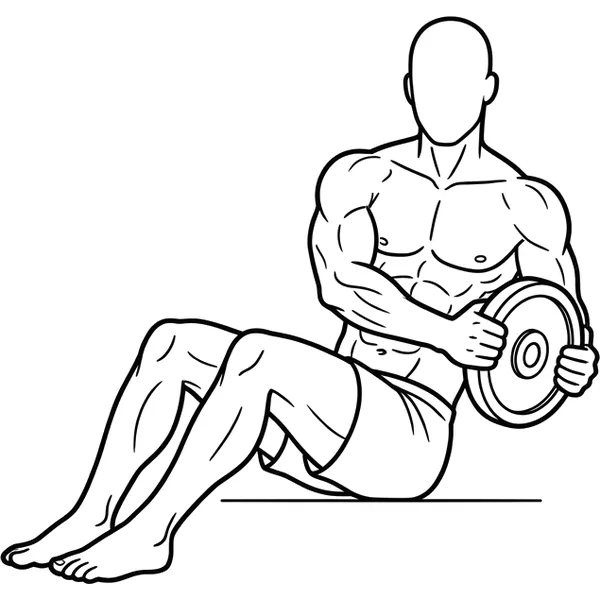
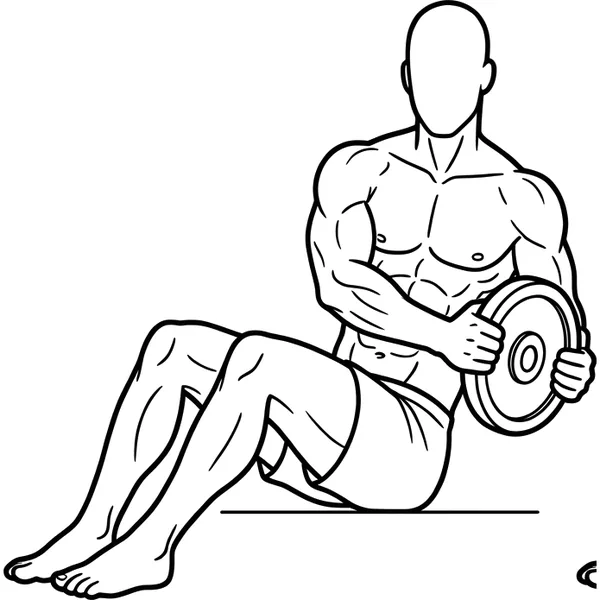
0.91.1: segunda tanda de dibujos con Gemini: curl predicador en polea, press en multipower, press a una mano, encogimientos con barra, dominadas neutras, flexiones en pino, giros rusos animados, frontales alternas y subida al cajon

Changed region(s): [[0.0, 0.06, 1.0, 1.0], [0.66, 0.0, 0.81, 0.18], [0.96, 0.93, 1.0, 0.99]]

diff --git a/web/sw.js b/web/sw.js
@@ -7,12 +7,12 @@
 // Solo se ocupa del CÓDIGO de la app. Los datos del usuario nunca pasan por
 // aquí: viven en el dispositivo (IndexedDB) y en su Google Drive.
 
-const VERSION = '0.91.0';
+const VERSION = '0.91.1';
 const CACHE = `entreno-${VERSION}`;
 // Las imágenes van en un almacén aparte que NO se borra al actualizar la app:
 // así se ven sin conexión aunque haya salido una versión nueva.
 // Si cambian las imágenes, se sube el número y los móviles bajan las nuevas.
-const CACHE_IMAGENES = 'entreno-imagenes-56';  // el mismo nombre en app.js (guardarImagenesParaSinConexion)
+const CACHE_IMAGENES = 'entreno-imagenes-57';  // el mismo nombre en app.js (guardarImagenesParaSinConexion)
 // Los audios de hipnosis, igual: almacén aparte que NO se borra al actualizar
 // la app. Pesan varios megas cada uno y no cambian nunca, así que se guardan
 // la primera vez que suenan y a partir de ahí se oyen sin conexión. Si algún

diff --git a/web/js/app.js b/web/js/app.js
@@ -249,7 +249,7 @@ async function guardarImagenesParaSinConexion() {
     const capas = Object.entries(MUSCULOS).flatMap(([clave, m]) => m.vistas.map((v) => archivoCapa(clave, v)));
     const cuerpo = ['imagenes/musculos/cuerpo-delante.svg', 'imagenes/musculos/cuerpo-detras.svg'];
     // El mismo nombre que CACHE_IMAGENES en sw.js: si no, el service worker lo borra.
-    const cache = await caches.open('entreno-imagenes-56');
+    const cache = await caches.open('entreno-imagenes-57');
     for (const ruta of [...cuerpo, ...capas, ...mios]) {
       if (!(await cache.match(ruta, { ignoreSearch: true }))) {
         const r = await fetch(ruta).catch(() => null);

diff --git a/web/js/version.js b/web/js/version.js
@@ -1,3 +1,3 @@
 // Versión del código de la app. Se sube en cada publicación y debe coincidir
 // con VERSION en sw.js, que es lo que hace que los móviles se actualicen.
-export const VERSION_APP = '0.91.0';
+export const VERSION_APP = '0.91.1';

diff --git a/herramientas/procesar_uno.py b/herramientas/procesar_uno.py
@@ -14,6 +14,9 @@ origen = Path(sys.argv[1])
 nombre = origen.stem.split('-', 1)[1]
 entrada = m.leer_tabla().get(nombre)
 op = entrada if isinstance(entrada, dict) else {}
+if '--sin-tabla' in sys.argv:   # el dibujo cambia de tipo (era quieto y ahora son dos posturas): no valen sus opciones
+    sys.argv.remove('--sin-tabla')
+    op = {}
 modo = sys.argv[2] if len(sys.argv) > 2 else op.get('ancla', 'pies')   # segundo argumento: el ancla, si el dibujo no está en peticiones.json
 if origen.stem.startswith('completo-'):
     modo = m.ANCLA_COMPLETO.get(nombre, 'encajar-suelo')

diff --git a/imagenes-ia/cola.md b/imagenes-ia/cola.md
@@ -288,3 +288,13 @@ máquina) y cabeza a la rodilla (cambió la postura). Método para subir el dibu
 abrir el menú «+» de Gemini (los `input[type=file]` solo existen con el menú abierto), subir el archivo al que acepta
 `image/*` con file_upload y cerrar el menú con Escape. Un original nuevo se procesa con `herramientas/procesar_uno.py`
 (no toca creditos.json). Sigue pendiente todo lo demás de la lista «Con IA» de la octava revisión.
+
+Con Gemini (12-11): dibujos propios de curl predicador en polea, press de banca en multipower, press de hombro a una mano,
+encogimientos con barra, dominadas neutras (dos asas) y flexiones en pino; giros rusos animados; elevaciones frontales
+alternas (cuatro posturas; el otro brazo, dibujo nuevo encajado por las piernas) y subida al cajón con la postura de pie
+arriba (encajada a ojo de buen cubero: revisar); peso muerto con mancuernas más musculoso. Descartados (en `descartes/`,
+`-11-11`): curl de muñeca (dos intentos: hace un curl de bíceps), sentadilla búlgara (misma geometría), elevaciones
+laterales (al procesar se rompe: está en CONGELADOS con retoques a mano), rotación interna con toalla (devuelve lo mismo).
+Método que más rinde: adjuntar las dos posturas del dibujo bueno en una imagen (scratchpad `dos.py`) y pedir «a partir de
+este, idéntico en todo, UN SOLO CAMBIO: …». El botón de descargar se puede pulsar por código (clic sobre el botón con
+aria-label «Descargar imagen a tamaño completo»), así cada dibujo son dos llamadas.

diff --git a/CLAUDE.md b/CLAUDE.md
@@ -1956,3 +1956,12 @@ las dominadas asistidas borrada a mano; jalón al pecho con la cabeza corregida 
 propios de «Jalón con cuerda», «Jalón tras nuca» y «Jalón unilateral en polea» (antes llevaban el del jalón al pecho).
 `herramientas/procesar_uno.py`: procesa un original suelto sin tocar creditos.json y le pasa el congelado. Almacén
 `entreno-imagenes-56`. El método con Gemini y lo que queda, en `imagenes-ia/cola.md` («Novena pasada»).
+
+### 0.91.1 (12-11-2026): segunda tanda de dibujos con Gemini
+
+(La 0.91.0 es de la conversación del sueño: audios nuevos.) Dibujos propios para «Curl predicador en polea», «Press de
+banca en multipower», «Press de hombro a una mano», «Encogimientos de trapecio con barra», «Dominadas neutras» y
+«Flexiones en pino» (antes de wger); «Giros rusos» animado; «Elevaciones frontales» alternas (cuatro posturas) y
+«Subida al cajón» con la postura de arriba (`completadoCon`); peso muerto con mancuernas más musculoso.
+`procesar_uno.py` admite el ancla como segundo argumento y `--sin-tabla`. Almacén `entreno-imagenes-57`. Lo descartado y
+lo que falta, en `imagenes-ia/cola.md` y al final de la página de revisión.
